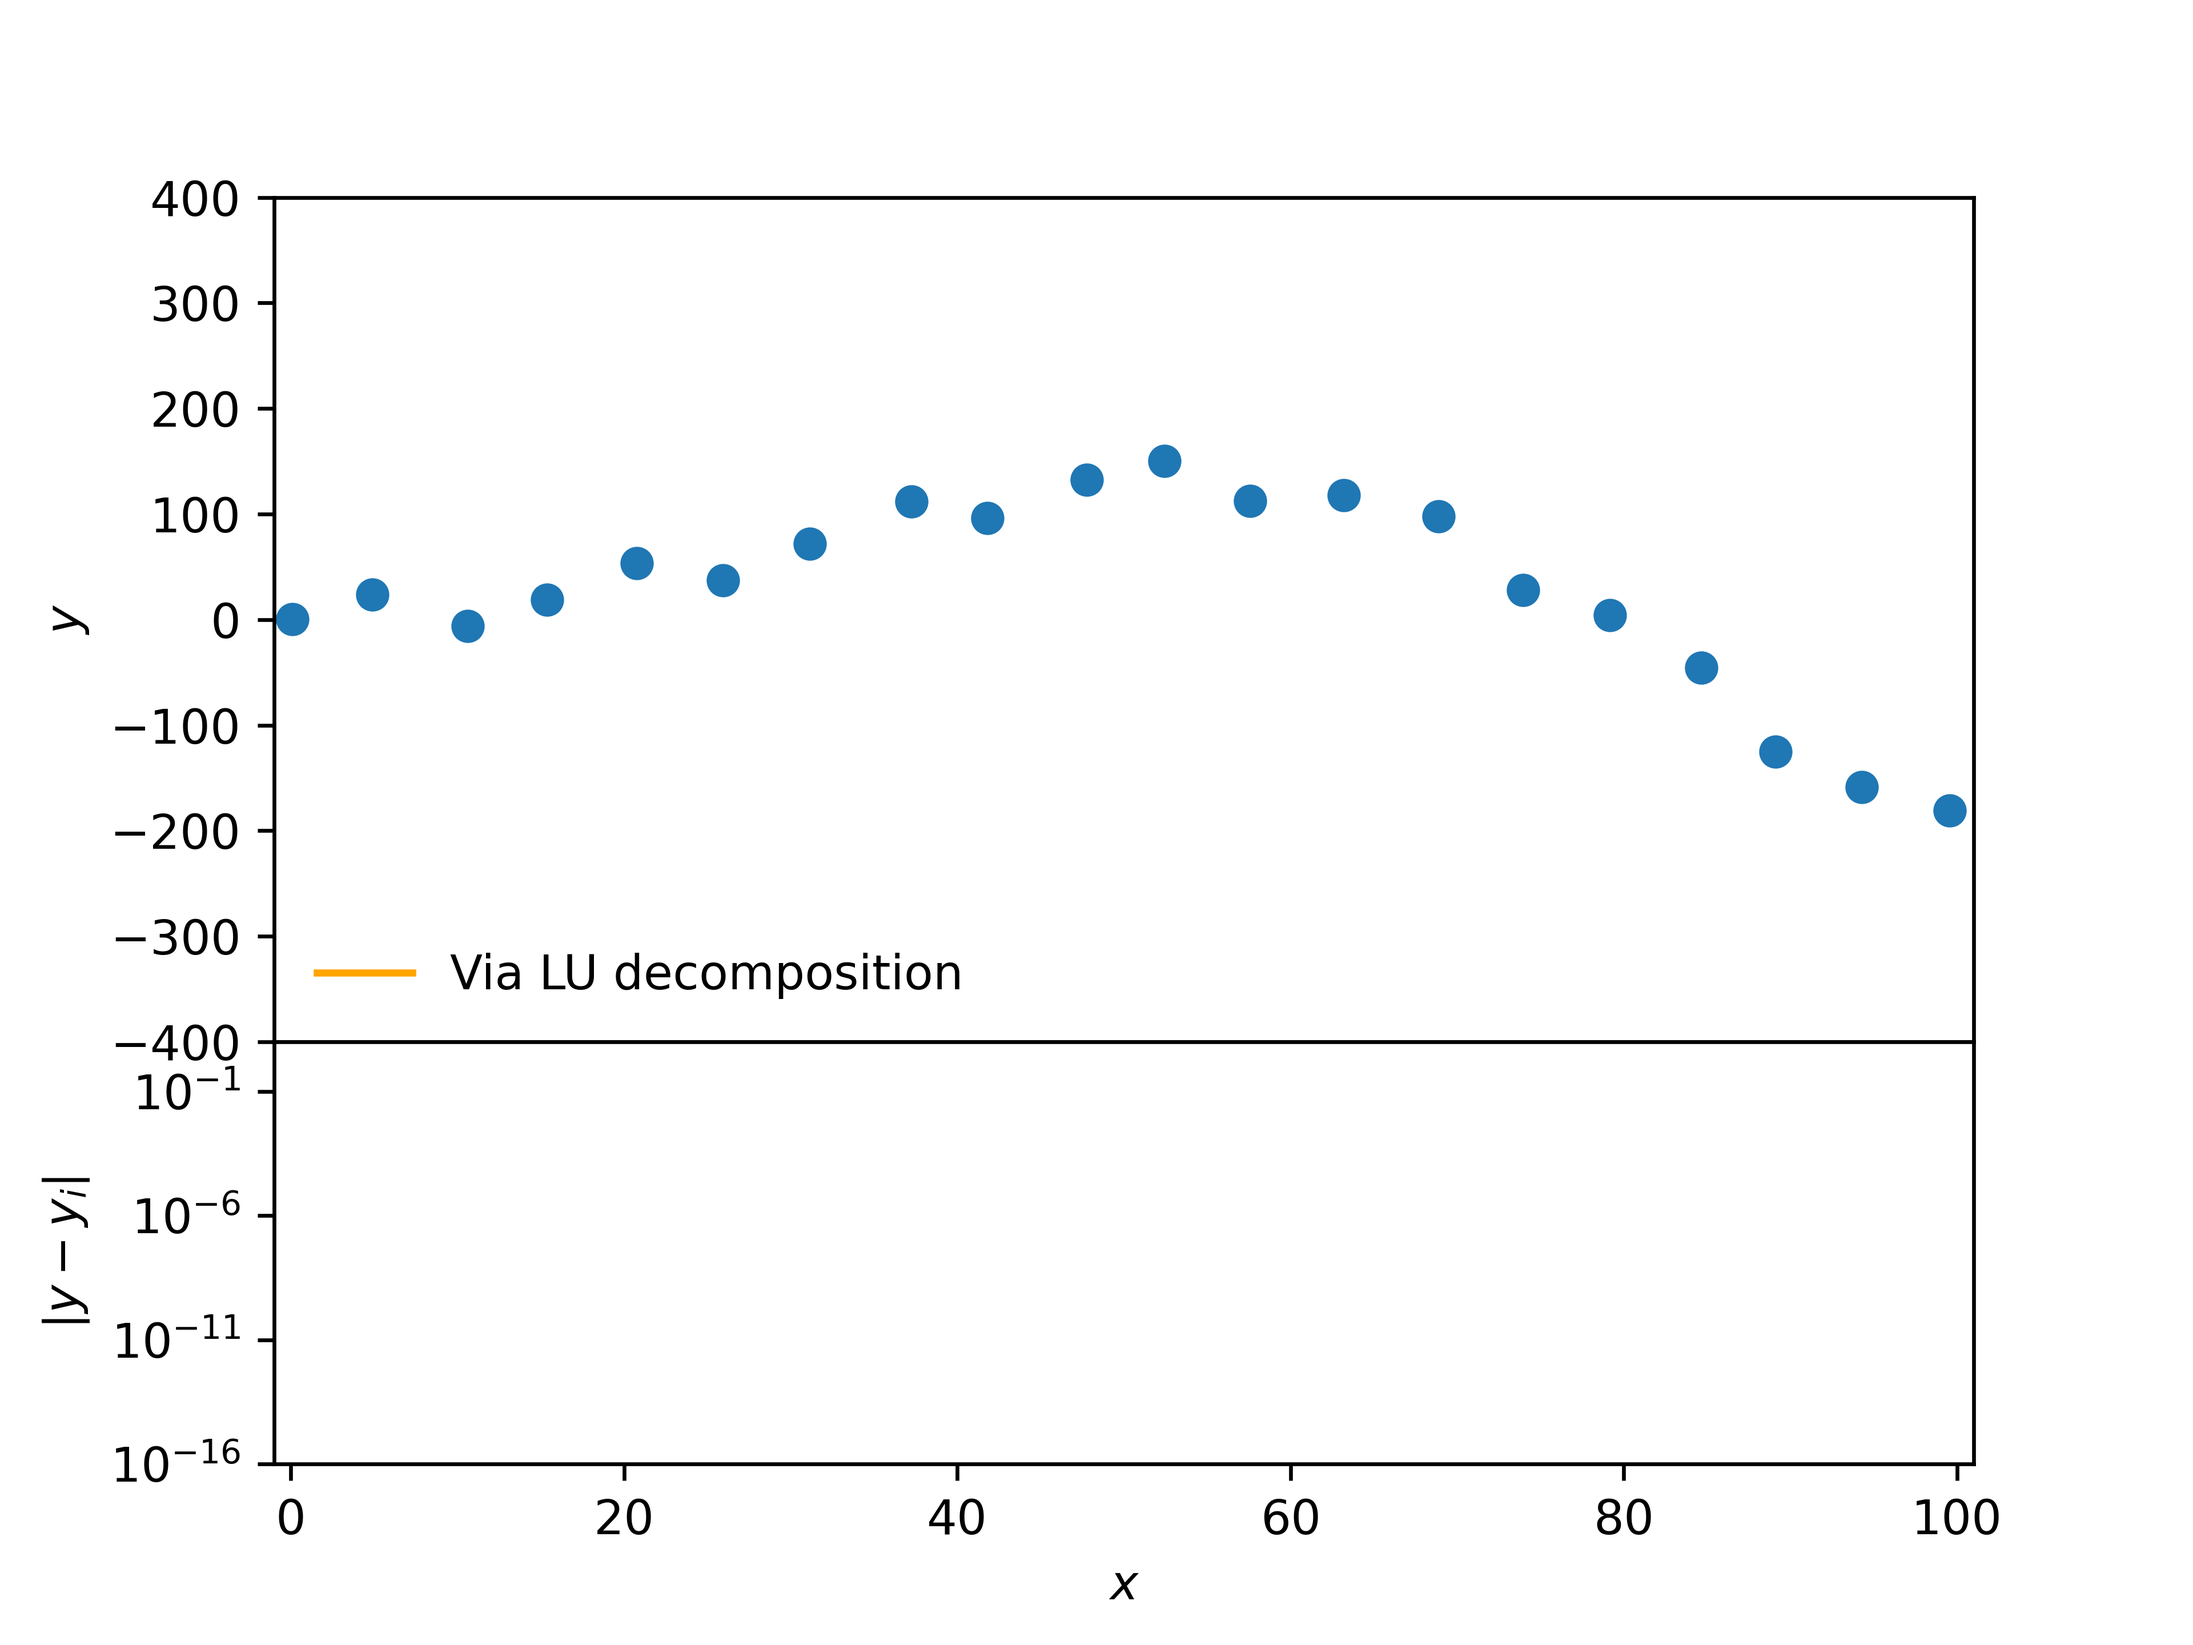
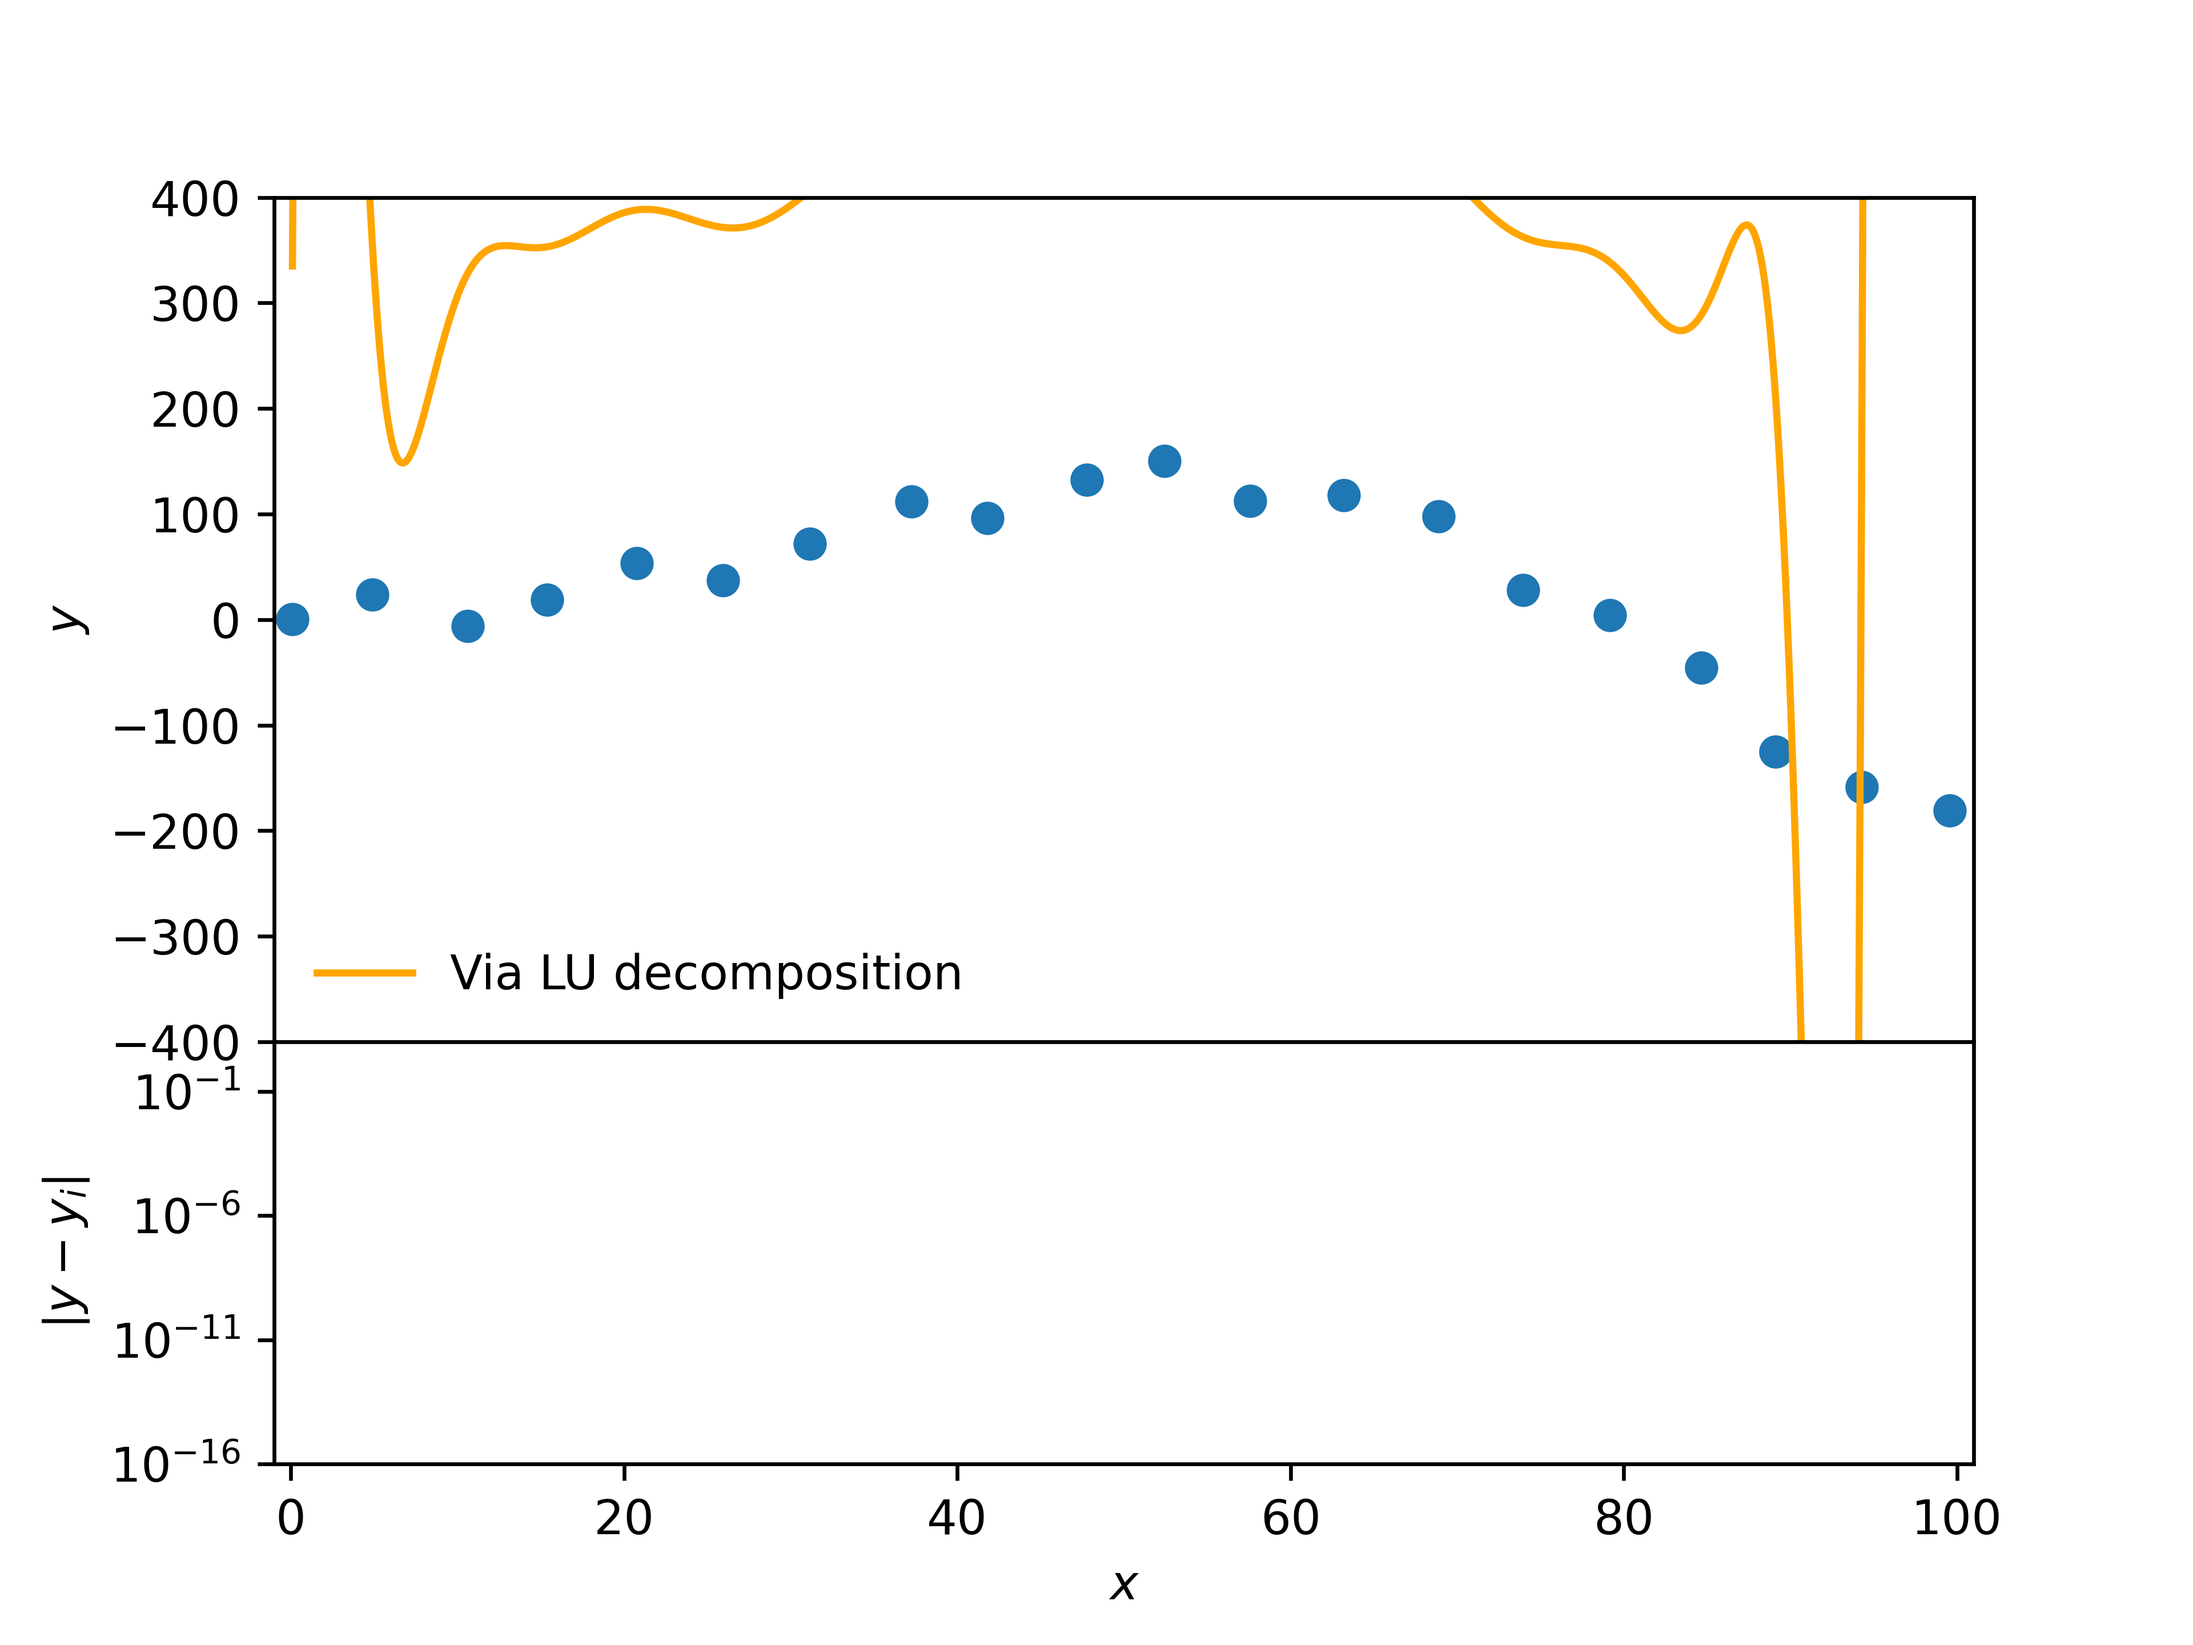
Q2b added, but not correct. 2a corrected, but still probably incorrect.

diff --git a/2_vandermonde_matrix.py b/2_vandermonde_matrix.py
@@ -8,8 +8,7 @@ import os
 import matplotlib.pyplot as plt
 
 
-
-# TODO overflow fixen
+# gecheckt, werkt voor A, geeft geen nans meer voor V
 def LU_decomposition(matrix:np.ndarray):
     # Assume alpha_ii = 1
     # Loop over the columns j
@@ -22,14 +21,17 @@ def LU_decomposition(matrix:np.ndarray):
                 term += matrix[i,k]*matrix[k,j]
             matrix[i,j] -= term
         # Update alpha_ij where i>j
-        for i in range(j, matrix.shape[0]):
+        beta_jj = 1/matrix[j,j]
+        for i in range(j+1, matrix.shape[0]):
             term = np.float64(0)
             for k in range(0, j):
                 term += matrix[i,k]*matrix[k,j]
-            matrix[i,j] = (matrix[i,j]-term)/matrix[j,j]
-    return matrix
+            matrix[i,j] = (matrix[i,j]-term)*beta_jj
+    return np.float64(matrix)
+
 
 def solving_system_with_LU(LU:np.ndarray, b:np.array) -> np.array:
+    # Knowing that alpha_ii = 1
     # Forward substitution
     # Keep y_0 = b_0 as alpha_00 = 1
     for i in range(1, LU.shape[0]):
@@ -42,26 +44,64 @@ def solving_system_with_LU(LU:np.ndarray, b:np.array) -> np.array:
     for i in range(LU.shape[0]-1):
         i = LU.shape[0]-1 - i
         term = np.float64(0)
-        for j in range(i):
+        for j in range(i+1, LU.shape[0]):
             term += LU[i,j]*b[j]
         b[i] = (b[i]-term)/LU[i,i]
-    return b
+    return np.float64(b)
 
 
 # TODO Neville's algorithm
 
+def bisection(M:np.int64, x_samp:np.array, x_interp:np.array) -> np.ndarray:
+# Assumes x_samp are uniformly spaced
+    if (M > x_samp.shape[0]):
+        print("M is too large for the array x_samp")
+        return False
+    for (i,x) in enumerate(x_interp):
+        l_idx = np.int64(0)
+        r_idx = np.int64(x_samp.shape[0]-1)
+        while (r_idx - l_idx > 1):
+            m_idx = np.int64((l_idx + r_idx)*0.5)
+            if (x <= x_samp[m_idx]):
+                r_idx = m_idx
+            elif (x > x_samp[m_idx]):
+                l_idx = m_idx
+        # Computing the left boundary index (ignoring range)
+        l_idx -= np.int64(np.floor(0.5*M))
+        # Checking range
+        if l_idx < 0:
+            l_idx = 0
+        if (l_idx + M >= x_samp.shape[0]):
+            l_idx -= l_idx + M - x_samp.shape[0]
+        x_interp[i] = l_idx
+    return np.int64(x_interp)
 
+def neville(M, x_samp, y_samp, x_interp):
+    # Finding left index of M tabulated points using bisection
+    l_indices = bisection(M, x_samp.copy(), x_interp.copy())
+    #y_samp = y_samp[np.newaxis,:]
+    # Initializing matrix P
+    Ps = np.zeros((x_interp.shape[0], M), dtype=np.float64)
+    for i in range(M):
+        Ps[:,i] = y_samp[l_indices+i]
+    print(Ps)
+    # Looping over orders k and current intervals
+    for k in range(1, M):
+        for i in range(M-1-k):
+            j = i+k
+            Ps[:,i] = ((x_samp[l_indices+j]-x_interp)*Ps[:,i]+(x_interp-x_samp[l_indices+i])*Ps[:,j])/(x_samp[l_indices+j]-x_samp[l_indices+i])
+    error_estimate = np.absolute(Ps[:,0]-Ps[:,1])
+    return Ps[:,0], error_estimate
 
-
-
-
+# TODO something wrong with neville (bisection seems fine)
+# For lower M, result is better than for larger M (shouldnt be right)
 
 data=np.genfromtxt(os.path.join(sys.path[0],"Vandermonde.txt"),comments='#',dtype=np.float64)
 x=data[:,0]
 y=data[:,1]
 xx=np.linspace(x[0],x[-1],1001) #x values to interpolate at
 
-
+#Insert your own code to calculate interpolated y values here!
 
 # 2a
 
@@ -69,24 +109,31 @@ xx=np.linspace(x[0],x[-1],1001) #x values to interpolate at
 V = np.zeros((x.shape[0], x.shape[0]), dtype=np.float64)
 for j in range(V.shape[0]):
     V[:,j] = np.power(x,j)
-#print(V)
+#print(V) this is correct TODO
+
+# check, LU is correct
+# A = np.array([[1,2,4],[3,8,14],[2,6,13]])
+# print(A)
+# print(LU_decomposition(A))
 
 # LU-decomposing V
 LU_V = LU_decomposition(V.copy())
-print(LU_V)
+#print(LU_V)
 
 # Solving for c
 c = solving_system_with_LU(LU_V, y.copy())
-print(c)
+#print(c)
 
 # Constructing the polynomial y
 def polynomial(c, x):
     y = np.float64(0)
     for j in range(c.shape[0]):
         y += c[j] * np.power(x,j)
-    return y
+    return np.float64(y)
 
-#Insert your own code to calculate interpolated y values here!
+# 2b
+
+# 3b
 
 
 #The plotting code below assumes you've given the interpolated
@@ -99,8 +146,8 @@ def polynomial(c, x):
 # ya=np.zeros(len(x),dtype=np.float64) #replace!
 yya = polynomial(c, xx)
 ya = polynomial(c, x)
-yyb=yya #replace!
-yb=ya #replace!
+yyb = neville(3, x, y, xx)[0]
+yb = neville(3, x, y, x)[0]
 yyc1=yya #replace!
 yc1=ya #replace!
 yyc10=yya #replace!
